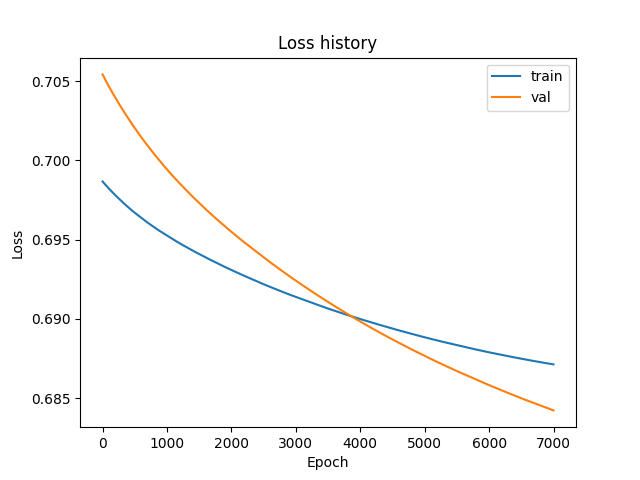
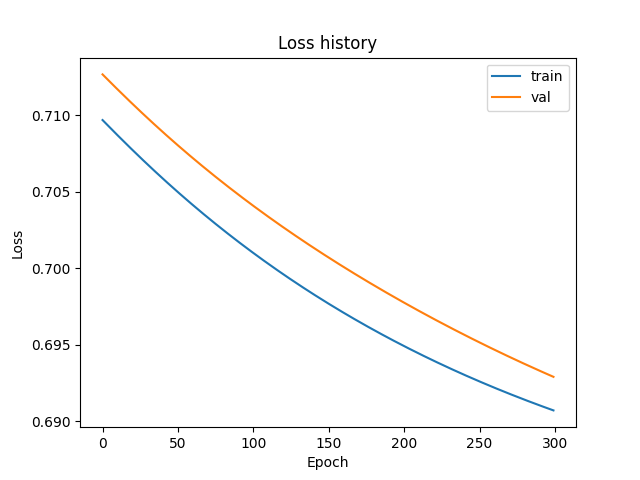
readme

diff --git a/src/lr_nn_classifier.py b/src/lr_nn_classifier.py
@@ -55,13 +55,13 @@ def arg_inputs():
                     "--mindf",
                     type = float,
                     required = True,
-                    help = "xxx") 
+                    help = "Set the lower cutoff for the document frequency") 
     
     my_parser.add_argument("-mxd", 
                     "--maxdf",
                     type = float,
                     required = True,
-                    help = "xxx") 
+                    help = "Set the upper cutoff for the document frequency") 
 
     my_parser.add_argument("-v", 
                     "--Vectorizer", # xxx
@@ -73,14 +73,14 @@ def arg_inputs():
     my_parser.add_argument("-hls", 
                     "--hidden_layer_size", # number of nodes in the hidden layer
                     type = int,
-                    required = False,
+                    required = False, nargs="?", default = None,
                     help = "Set number of nodes in the hidden layer") 
     
-    # my_parser.add_argument("-rs", 
-    #                 "--relu_negative_slope", # xxx
-    #                 type = float,
-    #                 required = False,
-    #                 help = "Set value for the negative slope of the leaky relu activation function") 
+    my_parser.add_argument("-rs", 
+                    "--relu_negative_slope", # xxx
+                    type = float,
+                    required = False, nargs="?", default = None,
+                    help = "Set value for the negative slope of the leaky relu activation function") 
     
     # list of arguments given
     args = my_parser.parse_args()
@@ -104,13 +104,13 @@ class LogReg(nn.Module):
 
 # Neural network
 class NeuralNetwork(nn.Module):
-    def __init__(self, hidden_layer_size:int, n_input_features): #xxx
+    def __init__(self, n_input_features, hidden_layer_size:int, relu_negative_slope:float): #xxx
         super().__init__()
         self.linear1 = nn.Linear(n_input_features, hidden_layer_size)
         self.linear2 = nn.Linear(hidden_layer_size, 1)
 
-    def forward(self, x):
-        leaky_relu = nn.LeakyReLU(0.2)
+    def forward(self, x, relu_negative_slope=relu_negative_slope):
+        leaky_relu = nn.LeakyReLU(relu_negative_slope)
         # Linear -> ReLU
         x = self.linear1(x)
         x = leaky_relu(x)
@@ -214,13 +214,13 @@ def Vectorize(data_path, Vectorizer:str, ngram:int, maxdf:float, mindf:float):
 
 
 ###### SET MODEL PARAMETERS ######
-def InitializeModel(hidden_layer_size:int, x_train, y_train, classifier, learning_rate):
+def InitializeModel(hidden_layer_size:int, relu_negative_slope:float, x_train, y_train, classifier, learning_rate):
 
     n_samples, n_features = x_train.shape
 
     # initializing the chosen classifier
     if classifier == 'nn':
-        model = NeuralNetwork(hidden_layer_size, n_input_features=n_features)
+        model = NeuralNetwork(hidden_layer_size=hidden_layer_size, relu_negative_slope=relu_negative_slope, n_input_features=n_features)
     
     elif classifier == 'lr':
         model = LogReg(n_input_features=n_features)
@@ -238,12 +238,12 @@ def InitializeModel(hidden_layer_size:int, x_train, y_train, classifier, learnin
 
 
 ###### TRAINING THE MODEL ######
-def Train(x_train, y_train, x_val, y_val, classifier, hidden_layer_size:int, epochs:int, learning_rate:float): # xxx plot = True
+def Train(x_train, y_train, x_val, y_val, classifier, hidden_layer_size:int, relu_negative_slope:float, epochs:int, learning_rate:float): # xxx plot = True
     
     print("[INFO:] Training classifier...")
 
     # Initialize the model
-    n_features, criterion, optimizer, model = InitializeModel(hidden_layer_size, x_train, y_train, classifier, learning_rate)
+    n_features, criterion, optimizer, model = InitializeModel(hidden_layer_size, relu_negative_slope, x_train, y_train, classifier, learning_rate)
 
     # for plotting
     train_loss_history = []
@@ -343,7 +343,7 @@ def main():
     x_train, y_train, x_val, y_val, x_test, y_test = Vectorize(data_path, arguments.Vectorizer, arguments.ngram, arguments.maxdf, arguments.mindf)
 
     # training the model
-    model, n_features = Train(x_train, y_train, x_val, y_val, classifier, arguments.hidden_layer_size, arguments.epochs, arguments.learning_rate)
+    model, n_features = Train(x_train, y_train, x_val, y_val, classifier, arguments.hidden_layer_size, arguments.relu_negative_slope, arguments.epochs, arguments.learning_rate)
 
     Test(n_features, model, x_test, y_test, classifier, arguments.epochs, arguments.epochs)
 

diff --git a/README.md b/README.md
@@ -9,6 +9,24 @@ The scripts in the source-folder contain:
 A .ipynb file, 'data_cleaning', used to clean the data used for analysis
 
 A .py script that can run logistic regressions and simple neural networks. The model can be run from bash with the following commands: 
+        If you want to run a logistic regression:
+        bash run_lr_or_nn.sh epochs learning_rate ngram mindf maxdf Vectorizer hidden_layer_size relu_negative_slope
+        where:
+            - epochs (int) = number of epochs that the models is trained over
+            - learning_rate (float) = the learning rate of the model
+            - ngram (int) = the upper boundary for the ngram range
+            - mindf (float) = the lower cutoff for the document frequency
+            - maxdf (float) = the upper cutoff for the document frequency
+            - Vectorizer (str) = must be either CountVectorizer or TfidfVectorizer. Write bow for CountVectorizer or tfidf for TfidfVectorizer.
+        For example run: bash run_lr_or_nn.sh 300 0.001 2 0.05 0.95 bow
+
+        or if you want to run a neural network:
+        bash run_lr_or_nn.sh epochs learning_rate ngram mindf maxdf Vectorizer hidden_layer_size relu_negative_slope
+        where:
+            - hidden_layer_size (int) = the number of nodes in the hidden layer
+            - relu_negative_slope (float) = the negative slope coefficient for the leaky ReLU activation function
+        For example run: bash run_lr_or_nn.sh 300 0.001 2 0.05 0.95 bow 32 0.2
+
 
 Running the sript will write metrics from the model to the 'out' folder.
 
